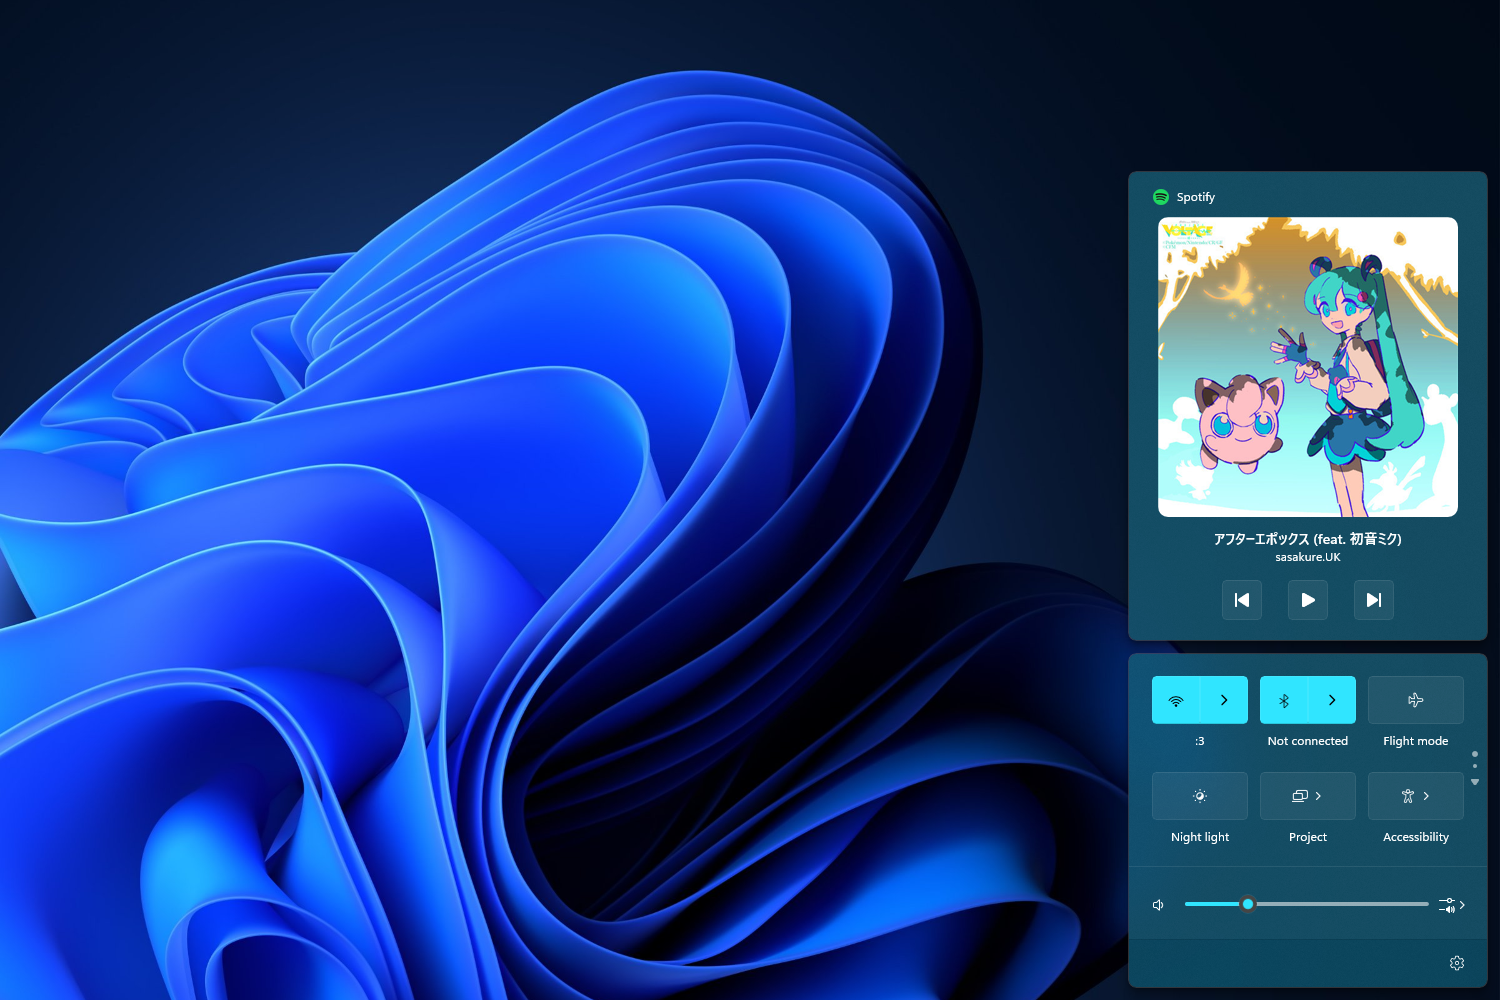
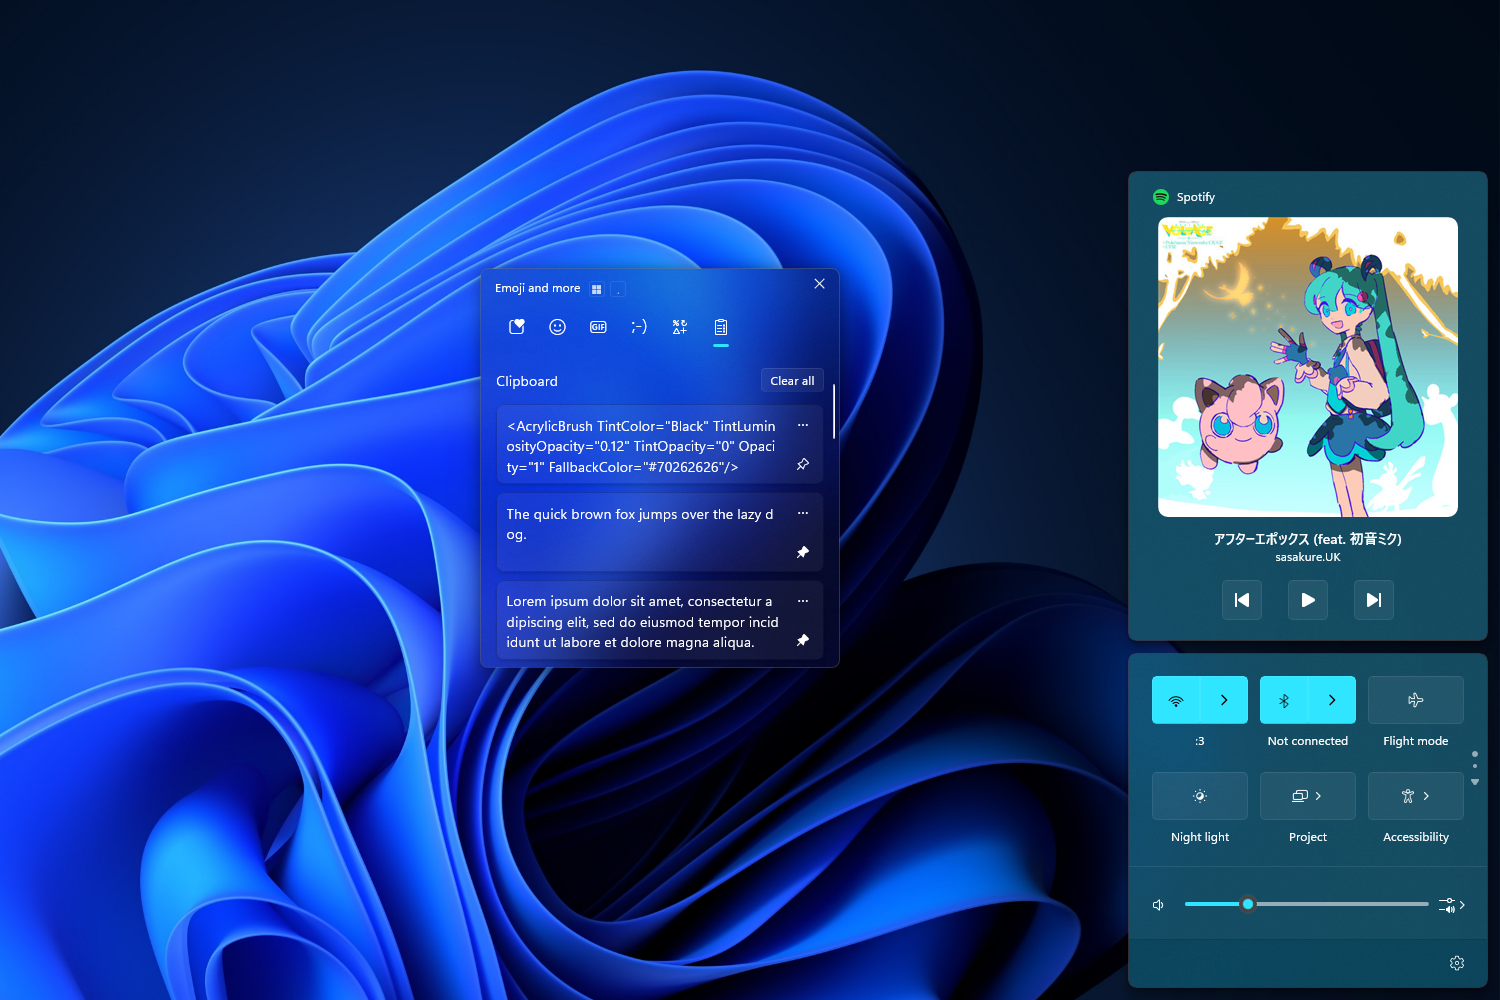
update

Changed region(s): [[0.3067, 0.248, 0.5827, 0.713]]

diff --git a/README.md b/README.md
@@ -20,6 +20,7 @@ For [Windows 11 Notification Center Styler](https://windhawk.net/mods/windows-11
 ![](https://github.com/AromaKitsune/Windows-XAML-Styles/blob/main/screenshots/MediaControls.png)
 
 * Large album art image for the Quick Actions' Media Controls
+* Translucent Text Input - Read the "additional configuration" section after first applying styles
 
 ## Lock Screen
 
@@ -65,6 +66,21 @@ First, install [Windhawk](https://windhawk.net/).
 ### Lock Screen, System Settings
 
 Follow the [forking Styler mod guide](https://github.com/AromaKitsune/Windows-XAML-Styles/blob/main/guides/Forking-Styler-Mod-for-Other-UWP-Apps.md).
+
+
+## Additional configuration
+
+### Translucent Text Input
+
+1. Launch the Windhawk app
+2. Find the "Windows 11 Notification Center Styler" mod
+3. Click "Details"
+4. Go to the "Advanced" tab
+5. Add `TextInputHost.exe` to the custom process inclusion list
+6. Click "Save
+7. Go to System Settings → Personalisation → Text input, and use Dark theme
+8. Restart `TextInputHost.exe` with Task Manager for changes to take effect
+
 
 ## How to make my own custom XAML styles?
 
